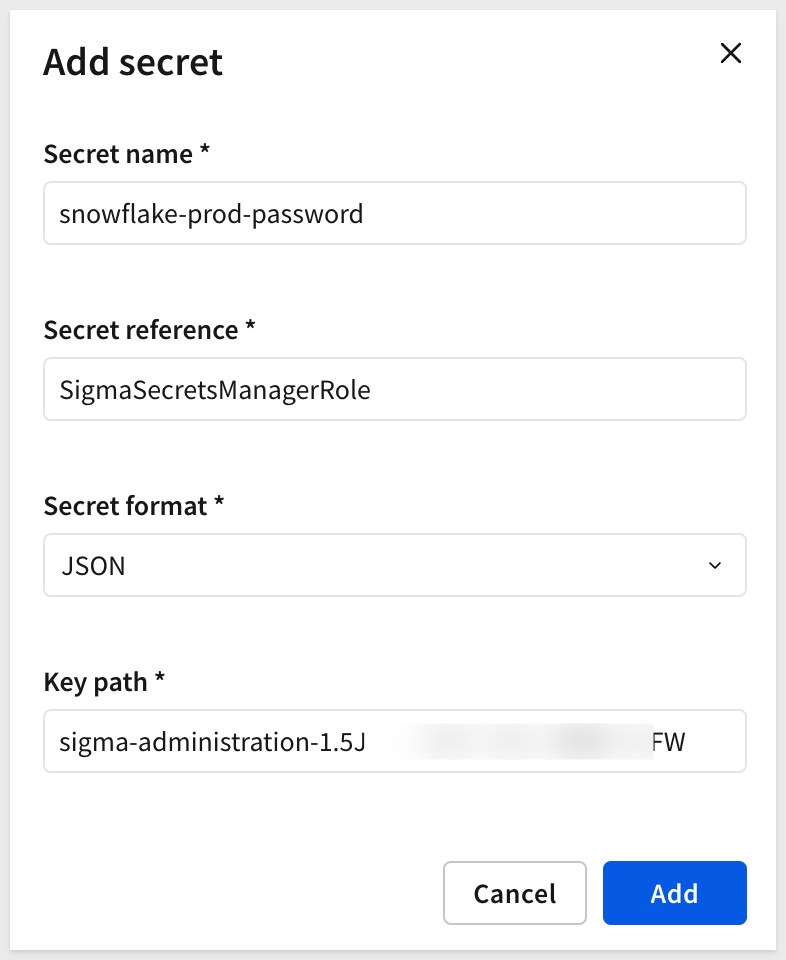
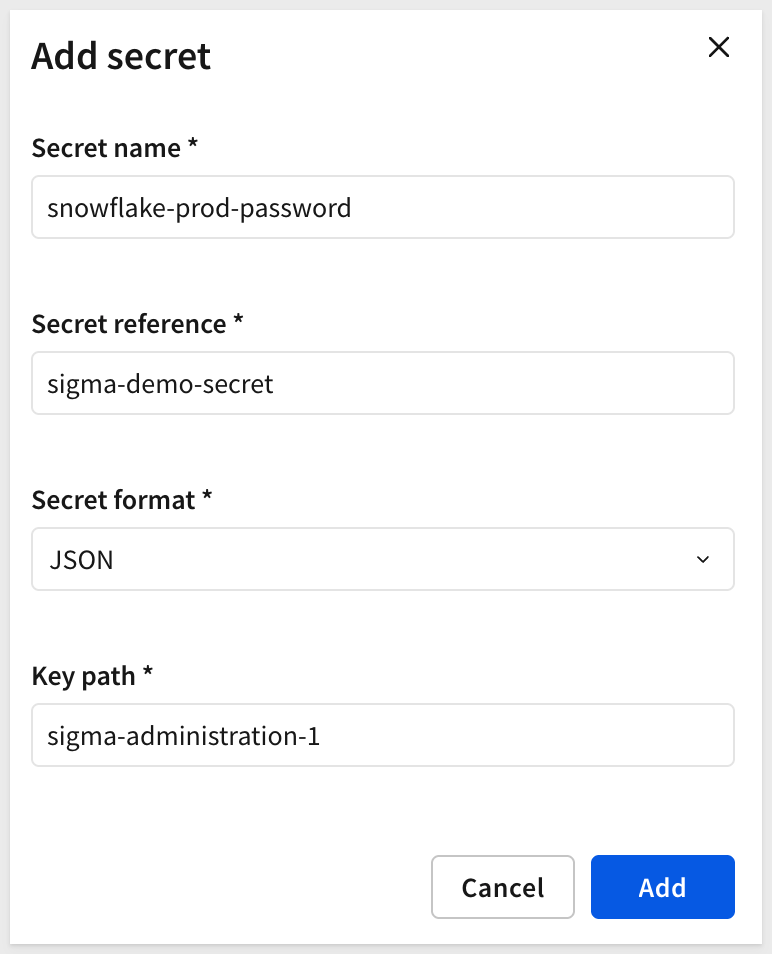
wip

diff --git a/site/sigmaguides/src/security_secrets_management/security_secrets_management.md b/site/sigmaguides/src/security_secrets_management/security_secrets_management.md
@@ -260,53 +260,16 @@ sigma-demo-secret
 - Key path: required only when Secret format is `JSON` or `Base64-encoded JSON` — not used for `Plain text` or `Base64`. For example:
 
 ```copy-code
-sigma-demo-secret.your_password
+sigma-administration-1
 ```
 
 <aside class="negative">
-<strong>IMPORTANT:</strong><br> `Secret reference` points at the secret itself, not at the IAM role. Don't paste the Role ARN from the previous section (`SigmaSecretsManagerRole`) here — that ARN identifies the role Sigma assumes, not the secret it's reading. Find the secret's own name or ARN in the AWS Secrets Manager console, under the `Secrets` list — it's a separate value from anything you used to set up the integration.
+<strong>IMPORTANT:</strong><br> `Secret reference` and `Key path` each point at something different, and it's easy to mix them up. `Secret reference` is the secret's own name or ARN from AWS Secrets Manager — not the Role ARN from the previous section (`SigmaSecretsManagerRole`), and nothing appended to it. `Key path` is the JSON key name only — never the value. For a secret named `sigma-demo-secret` with a single key `sigma-administration-1`, that's `Secret reference` = `sigma-demo-secret` and `Key path` = `sigma-administration-1` — the value stored under that key never belongs in either field.
 </aside>
 
-<aside class="negative">
-<strong>IMPORTANT:</strong><br> `Secret reference` is the ARN or secret name only — stop at the random suffix AWS generates (for example, `arn:aws:secretsmanager:us-east-1:849276620055:secret:sigma-demo-secret-rIUocv`). Never append a key name or value to it, even though both `Secret reference` and `Key path` can look like dot-separated strings. Something like `sigma-demo-secret-rIUocv.sigma-administration-1` or `sigma-demo-secret-rIUocv.6zKMsd!4VxgCGJ3` in `Secret reference` is incorrect — which key to read comes from the separate `Key path` field below, not from anything tacked onto the ARN.
-</aside>
+Not sure what your key names are? In the AWS Secrets Manager console, open the secret and click `Retrieve secret value` under `Secret value` to see its JSON structure.
 
-`Key path` tells Sigma which field to pull out of the secret's JSON — it doesn't change where the secret is stored, only which value inside it Sigma reads.
-
-<aside class="negative">
-<strong>IMPORTANT:</strong><br> `Key path` is built only from JSON key names — it never includes the value itself. Each segment separated by a dot is a key one level deeper into the JSON; the last segment is the key whose value Sigma returns. Entering `sigma-administration-1.6zKMsd!4VxgCGJ3` (key name plus value) instead of just `sigma-administration-1` is a common mistake, and Sigma will reject it as an invalid secret extraction configuration.
-</aside>
-
-The key names come from your own secret, not from Sigma, so check what's actually there before filling in this field. In the AWS Secrets Manager console, open the secret, and under `Secret value` click `Retrieve secret value` to see its JSON structure and confirm the exact key names.
-
-For example, a secret stored as a single, flat key/value pair might look like this:
-
-```copy-code
-{
-  "sigma-administration-1": "6zKMsd!4VxgCGJ3"
-}
-```
-
-has only one key and no nesting, so Key path is just that key name — `sigma-administration-1`. The value (`6zKMsd!4VxgCGJ3`) never appears in Key path; it's what Sigma returns once it finds the key.
-
-Compare that to a secret with nested JSON like this:
-
-```copy-code
-{
-  "db": {
-    "credentials": {
-      "password": "6zKMsd!4VxgCGJ3"
-    }
-  }
-}
-```
-
-Build the path one level at a time, following the nesting inward:
-- `db` — the outer key
-- `db.credentials` — one level inside `db`
-- `db.credentials.password` — one level inside `credentials`, landing on the key whose value you want
-
-Key path is `db.credentials.password` — three key names joined by dots, in the same order you'd nest into the JSON to reach the value. The value (`6zKMsd!4VxgCGJ3`) still never appears in the path itself.
+If your secret has nested JSON instead of one flat key, join each key name with a dot to walk down to the one you want — for example, `db.credentials.password` for a value nested inside `db` > `credentials` > `password`.
 
 Click `Add`:
 
@@ -316,9 +279,13 @@ The secret now appears in the `Secrets` list for this integration.
 
 ### Confirm Sigma can retrieve the secret
 
-Before attaching this secret to a connection, confirm the trust handshake actually works. Open the secret, click `More` > `Edit`, then click `Test access`.
+Before attaching this secret to a connection, confirm the trust handshake actually works. Open the secret, click the `3-dot` menu > `Edit`:
 
-<!-- <img src="assets/sm_05c.png" width="800"/> -->
+<img src="assets/sm_05d.png" width="800"/>
+
+Click `Test access`:
+
+<img src="assets/sm_05c.png" width="400"/>
 
 <aside class="positive">
 <strong>NOTE:</strong><br> A successful test confirms Sigma can assume the AWS role and read the secret value — the same permissions a connection will use once you attach this secret to one.
@@ -332,7 +299,32 @@ If `Test access` fails, double check that the IAM role's trust policy has the ex
 ## Attach a Secret to a Connection
 Duration: 5
 
-### ...placeholder — "Use secret manager" toggle at connection creation
+With a secret added and confirmed working, attach it to whichever connection field needs it. Each sensitive credential field on a connection — `Password`, `Private key`, `Private key passphrase`, depending on the connection type — has its own `Use secret manager` toggle, so you can mix secret-manager-backed fields with directly-entered ones on the same connection.
+
+### Enable the secret manager toggle on a connection
+
+In Sigma, navigate to `Administration` > `Connections`, then open the connection you want to update (or create a new one).
+
+<!-- <img src="assets/sm_06.png" width="800"/> -->
+
+On the credential field that should pull from your secret manager, turn on `Use secret manager`, then fill in:
+
+- Secret manager: the integration you created earlier (for example, `Sigma-AWS-Secrets-Integration`)
+- Secret: the secret you added (for example, `snowflake-prod-password`)
+
+<!-- <img src="assets/sm_06a.png" width="800"/> -->
+
+<aside class="positive">
+<strong>NOTE:</strong><br> Each credential field toggles independently, so you can mix secret-manager-backed fields with directly-entered ones on the same connection. On a Snowflake key pair connection, for example, you might leave `Private key` entered directly (via `Add key file`) while `Private key passphrase` uses the secret manager — or attach the secret manager to both. Either is valid; use it wherever it fits your setup.
+</aside>
+
+Click `Save`.
+
+<aside class="positive">
+<strong>WHY IT MATTERS:</strong><br> The connection never stores the private key or passphrase directly — only a pointer to the secret. Rotate the value in AWS Secrets Manager, and every connection referencing it picks up the change automatically, with nothing to update in Sigma.
+</aside>
+
+Confirm the connection still works — open a workbook that uses it, or run a query against it, to verify the secret-manager-backed credentials authenticate correctly.
 
 ![Footer](assets/sigma_footer.png)
 <!-- END OF SECTION-->
